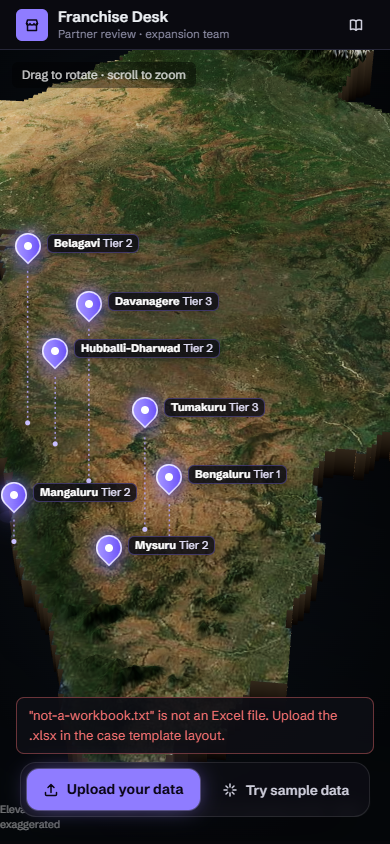
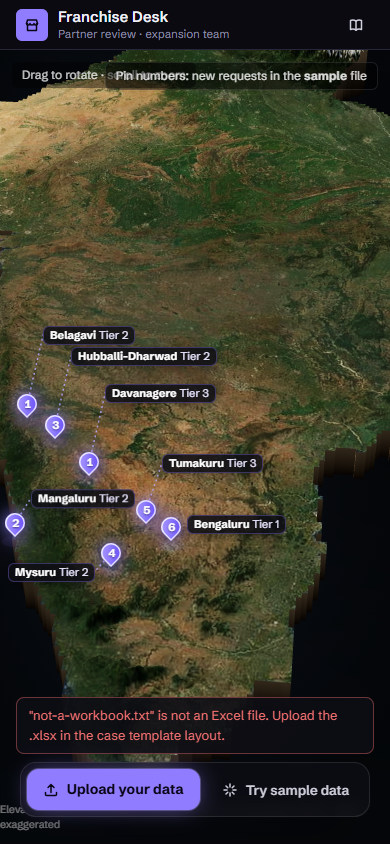
Pins stay fixed on their places while the map swings; sample request counts on first-page pins

diff --git a/components/map/Diorama.tsx b/components/map/Diorama.tsx
@@ -224,7 +224,7 @@ export default function Diorama({ points, activeKey, onPick, reducedMotion, onFa
         let dirty = true; // redraw on the next frame
 
         // ---- pins and tags ----
-        type Pin = { last?: { L: number; flip: boolean }; c: MapPoint; anchor: THREE.Vector3; el: HTMLButtonElement; line: SVGLineElement; foot: SVGCircleElement };
+        type Pin = { size?: [number, number]; last?: { flip: boolean; dy: number }; c: MapPoint; anchor: THREE.Vector3; el: HTMLButtonElement; line: SVGLineElement; foot: SVGCircleElement };
         const SVG = "http://www.w3.org/2000/svg";
         let pins: Pin[] = [];
         const anchorFor = (lng: number, lat: number) => {
@@ -276,7 +276,8 @@ export default function Diorama({ points, activeKey, onPick, reducedMotion, onFa
 
         // place tags over their pins; tags that would collide rise on taller poles or slide sideways
         const v = new THREE.Vector3();
-        const layout = () => {
+        // search: look for free spots (collision layout); otherwise keep each tag where it was and only follow the map
+        const layout = (search = true) => {
           const w = el.clientWidth;
           const h = el.clientHeight;
           const items = pins
@@ -285,28 +286,33 @@ export default function Diorama({ points, activeKey, onPick, reducedMotion, onFa
               return { p, x: (v.x * 0.5 + 0.5) * w, y: (-v.y * 0.5 + 0.5) * h, behind: v.z > 1 };
             })
             .sort((a, b) => b.y - a.y);
-          const placed: { x: number; y: number; w: number; h: number }[] = [];
+          // pins never move off their places: every pin sits exactly on its spot, and only the name label
+          // picks a side (and, in a tight cluster, a row just above or below) where it overlaps least
+          const P = 24;
+          const PH = 32;
+          const placed: { x: number; y: number; w: number; h: number }[] = items.filter((it) => !it.behind).map((it) => ({ x: it.x - P / 2, y: it.y - PH, w: P, h: PH }));
           for (const it of items) {
             const tag = it.p.el;
             const hidden = it.behind;
             tag.style.display = hidden ? "none" : "";
-            it.p.line.style.display = hidden ? "none" : "";
-            it.p.foot.style.display = hidden ? "none" : "";
-            const tw = tag.offsetWidth;
-            const th = tag.offsetHeight;
-            const P = 30; // pin width; its tip is at the bottom centre
-            const leftOf = (flip: boolean) => (flip ? it.x - tw + P / 2 : it.x - P / 2);
-            let best = { L: 0, flip: false };
-            const tries: { L: number; flip: boolean }[] = [];
-            if (it.p.last) tries.push({ L: it.p.last.L, flip: it.p.last.flip });
-            for (const L of [0, 22, 44, 68, 94, 122, 152]) for (const flip of [false, true]) tries.push({ L, flip });
-            // first spot that overlaps nothing; failing that, the one that overlaps least
+            it.p.line.style.display = "none";
+            it.p.foot.style.display = "none";
+            if (hidden) continue;
+            tag.style.zIndex = String(Math.round(it.y)); // nearer pins in front
+            const name = tag.querySelector<HTMLElement>(".dp-name")!;
+            if (!it.p.size || !it.p.size[0]) it.p.size = [name.offsetWidth, name.offsetHeight];
+            const [lw, lh] = it.p.size;
+            const row = lh + 3;
+            const labelRect = (t: { flip: boolean; dy: number }) => ({ x: t.flip ? it.x - P / 2 - 4 - lw : it.x + P / 2 + 4, y: it.y - 14 - lh + t.dy, w: lw, h: lh });
+            const tries: { flip: boolean; dy: number }[] = [];
+            if (it.p.last) tries.push(it.p.last);
+            for (const dy of [0, -row, row, -2 * row, 2 * row, -3 * row]) for (const flip of [false, true]) tries.push({ flip, dy });
+            let best = tries[0];
             let bestScore = Infinity;
-            let bestRect: { x: number; y: number; w: number; h: number } | null = null;
-            for (const t of tries) {
-              const r = { x: leftOf(t.flip) - 2, y: it.y - t.L - th - 2, w: tw + 4, h: th + 2 };
-              if (r.y < 6) continue;
-              let score = (r.x < 4 ? 4 - r.x : 0) * 50 + (r.x + r.w > w - 4 ? r.x + r.w - w + 4 : 0) * 50 + t.L * 0.5;
+            let bestRect = labelRect(best);
+            for (const t of search || !it.p.last ? tries : tries.slice(0, 1)) {
+              const r = labelRect(t);
+              let score = (r.x < 4 ? 4 - r.x : 0) * 50 + (r.x + r.w > w - 4 ? r.x + r.w - w + 4 : 0) * 50 + (r.y < 4 ? 4 - r.y : 0) * 50 + Math.abs(t.dy) * 0.4;
               for (const q of placed) {
                 const ox = Math.min(r.x + r.w, q.x + q.w) - Math.max(r.x, q.x);
                 const oy = Math.min(r.y + r.h, q.y + q.h) - Math.max(r.y, q.y);
@@ -317,23 +323,26 @@ export default function Diorama({ points, activeKey, onPick, reducedMotion, onFa
                 best = t;
                 bestRect = r;
               }
-              if (score === t.L * 0.5) break;
+              if (score === Math.abs(t.dy) * 0.4) break;
             }
-            if (bestRect) placed.push(bestRect);
+            placed.push(bestRect);
             it.p.last = best;
             tag.classList.toggle("flip", best.flip);
-            const tx = Math.round(leftOf(best.flip));
-            const ty = Math.round(it.y - best.L - th);
-            tag.style.transform = `translate(${tx}px, ${ty}px)`;
-            // a short dotted stem only when the pin had to rise above a neighbour
-            it.p.line.style.display = hidden || !best.L ? "none" : "";
-            it.p.foot.style.display = hidden || !best.L ? "none" : "";
-            it.p.line.setAttribute("x1", String(it.x));
-            it.p.line.setAttribute("y1", String(it.y));
-            it.p.line.setAttribute("x2", String(it.x));
-            it.p.line.setAttribute("y2", String(it.y - best.L));
-            it.p.foot.setAttribute("cx", String(it.x));
-            it.p.foot.setAttribute("cy", String(it.y));
+            name.style.transform = best.dy ? `translateY(${best.dy}px)` : "";
+            const tx = Math.round(best.flip ? it.x - P / 2 - 4 - lw : it.x - P / 2);
+            tag.style.transform = `translate(${tx}px, ${Math.round(it.y - PH)}px)`;
+            // a short neon connector when the label had to shift off its pin
+            if (best.dy) {
+              const hx = it.x;
+              const hy = it.y - PH + 12;
+              const lx = best.flip ? bestRect.x + bestRect.w : bestRect.x;
+              const ly = bestRect.y + bestRect.h / 2;
+              it.p.line.style.display = "";
+              it.p.line.setAttribute("x1", String(hx));
+              it.p.line.setAttribute("y1", String(hy));
+              it.p.line.setAttribute("x2", String(lx));
+              it.p.line.setAttribute("y2", String(ly));
+            }
           }
         };
 
@@ -378,9 +387,9 @@ export default function Diorama({ points, activeKey, onPick, reducedMotion, onFa
           if (latest.current.autoRotate && !reducedMotion && introT >= 1 && !touching && t - idleSince > 4000) {
             off.copy(camera.position).sub(controls.target);
             sph.setFromVector3(off);
-            if (baseTheta === null) baseTheta = sph.theta - 0.42 * Math.sin(swingT);
+            if (baseTheta === null) baseTheta = sph.theta - 0.3 * Math.sin(swingT);
             swingT += (2 * Math.PI) / (40 * 60);
-            sph.theta = baseTheta + 0.42 * Math.sin(swingT);
+            sph.theta = baseTheta + 0.3 * Math.sin(swingT);
             camera.position.copy(controls.target).add(off.setFromSpherical(sph));
             camera.lookAt(controls.target);
             dirty = true;
@@ -389,10 +398,11 @@ export default function Diorama({ points, activeKey, onPick, reducedMotion, onFa
           if (!dirty && !moved) return;
           dirty = false;
           renderer!.render(scene, camera);
-          if (t - lastLayout > 60 || introT < 1) {
-            layout();
-            lastLayout = t;
-          }
+          // tags follow their pins every frame; while the view swings, spots are re-chosen only now and then so labels do not hop
+          const swinging = baseTheta !== null;
+          const search = introT < 1 || t - lastLayout > (swinging ? 1500 : 120);
+          layout(search);
+          if (search) lastLayout = t;
         };
         raf = requestAnimationFrame(loop);
         controls.addEventListener("end", () => {

diff --git a/components/EmptyState.tsx b/components/EmptyState.tsx
@@ -4,6 +4,9 @@ import { useEffect, useMemo, useState } from "react";
 import dynamic from "next/dynamic";
 import { Icon } from "./icons";
 import { cityPoints } from "@/lib/map/terrain";
+import { parseWorkbook } from "@/lib/parse/parse";
+import { readWorkbook } from "@/lib/parse/xlsx";
+import reference from "@/lib/engine/reference.json";
 
 const Diorama = dynamic(() => import("./map/Diorama"), {
   ssr: false,
@@ -12,7 +15,27 @@ const Diorama = dynamic(() => import("./map/Diorama"), {
 
 export function EmptyState({ onFile, onSample, error, loading }: { onFile: (f: File) => void; onSample: () => void; error: string | null; loading: boolean }) {
   const [over, setOver] = useState(false);
-  const points = useMemo(() => cityPoints(), []);
+  // before any upload, the pins count the requests in the bundled sample file (invented applicants), marked as sample
+  const [counts, setCounts] = useState<Record<string, number> | null>(null);
+  useEffect(() => {
+    let live = true;
+    fetch("/sample/sample-golden.xlsx")
+      .then((r) => (r.ok ? r.arrayBuffer() : Promise.reject()))
+      .then((buf) => {
+        const ds = parseWorkbook(readWorkbook(new Uint8Array(buf)), "sample", "sample");
+        const c: Record<string, number> = {};
+        for (const a of ds.applications) {
+          const city = a.pin ? reference.cities.find((x) => x.prefix === a.pin!.slice(0, 3))?.city : undefined;
+          if (city) c[city] = (c[city] ?? 0) + 1;
+        }
+        if (live) setCounts(c);
+      })
+      .catch(() => {});
+    return () => {
+      live = false;
+    };
+  }, []);
+  const points = useMemo(() => cityPoints().map((p) => (counts ? { ...p, count: counts[p.title] ?? 0 } : p)), [counts]);
   const [picked, setPicked] = useState<string | null>(null);
   const [reduced, setReduced] = useState(false);
   const [map3d, setMap3d] = useState(true);
@@ -36,6 +59,7 @@ export function EmptyState({ onFile, onSample, error, loading }: { onFile: (f: F
       }}
     >
       {map3d && <Diorama points={points} activeKey={picked} onPick={(k) => setPicked((p) => (p === k ? null : k))} reducedMotion={reduced} onFail={() => setMap3d(false)} autoRotate hint="Drag to rotate · scroll to zoom" />}
+      {counts && map3d && <p className="pointer-events-none absolute right-3 top-3 z-[3] rounded-md border border-white/10 bg-black/50 px-2.5 py-1 text-[12px] text-white/85">Pin numbers: new requests in the <b>sample</b> file</p>}
       {!map3d && <p className="grid h-full place-items-center text-[13px] text-muted">The 3D view needs WebGL. Upload still works.</p>}
       {over && <div className="pointer-events-none absolute inset-3 z-[4] grid place-items-center rounded-2xl border-2 border-dashed border-[#b4a6ff] bg-[#8f7cff14] text-[16px] font-semibold text-white">Drop the Excel file to open it</div>}
       <div className="absolute inset-x-0 bottom-6 z-[5] flex flex-col items-center gap-2 px-4">

diff --git a/app/globals.css b/app/globals.css
@@ -547,3 +547,34 @@ table td.num {
 .tm-callout.is-orphan .tm-foot {
   background: #8e8ea6;
 }
+
+.dp-name {
+  transition: transform 260ms var(--ease-out);
+}
+/* compact pins: 24 px wide, tip at the bottom centre */
+.dp-pin {
+  width: 24px;
+  height: 32px;
+}
+.dp-head {
+  left: 2px;
+  top: 1px;
+  width: 20px;
+  height: 20px;
+}
+.dp-num {
+  font-size: 11px;
+}
+.dp-name {
+  margin-bottom: 14px;
+}
+.dp-pulse {
+  width: 12px;
+  height: 5px;
+  margin-left: -6px;
+}
+.dio-tag:hover,
+.dio-tag:focus-visible,
+.dio-tag.is-active {
+  z-index: 100000 !important;
+}
